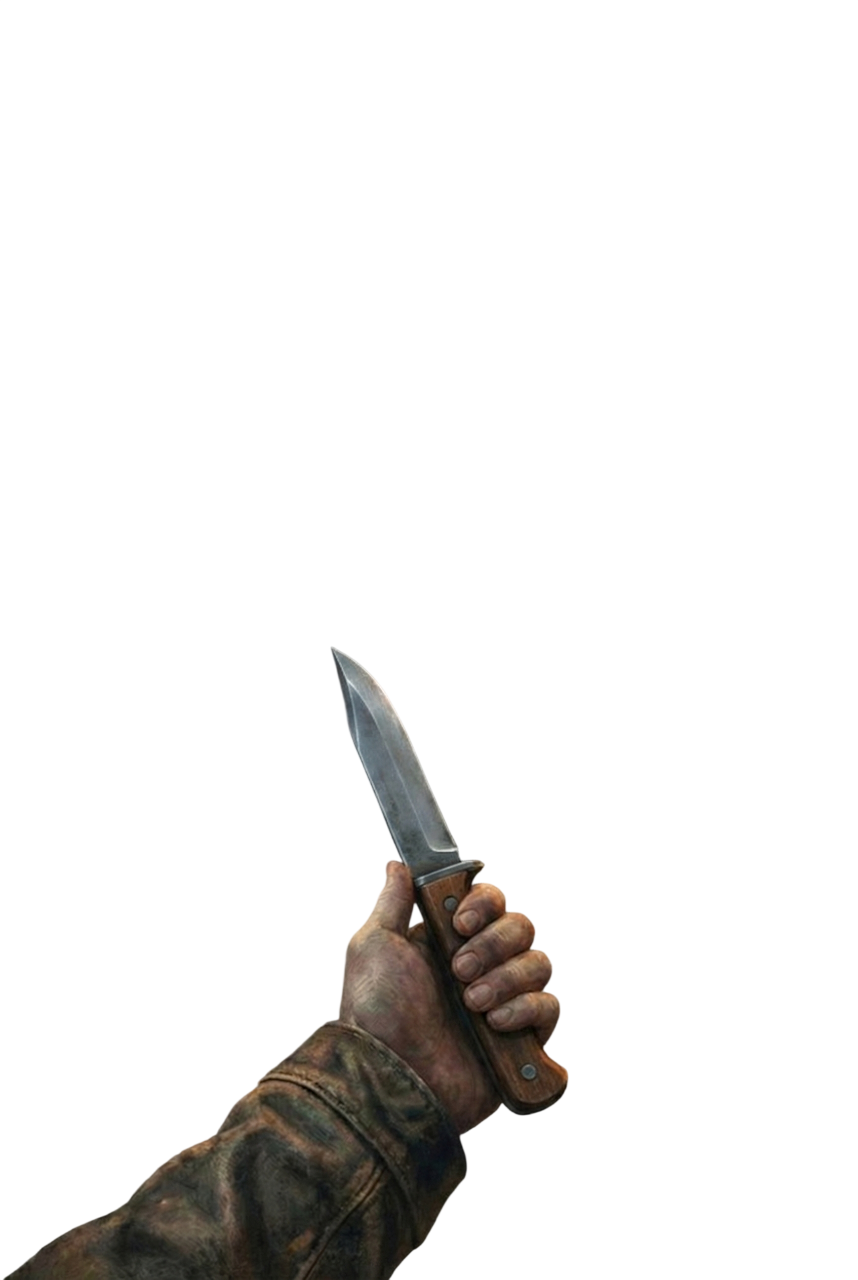
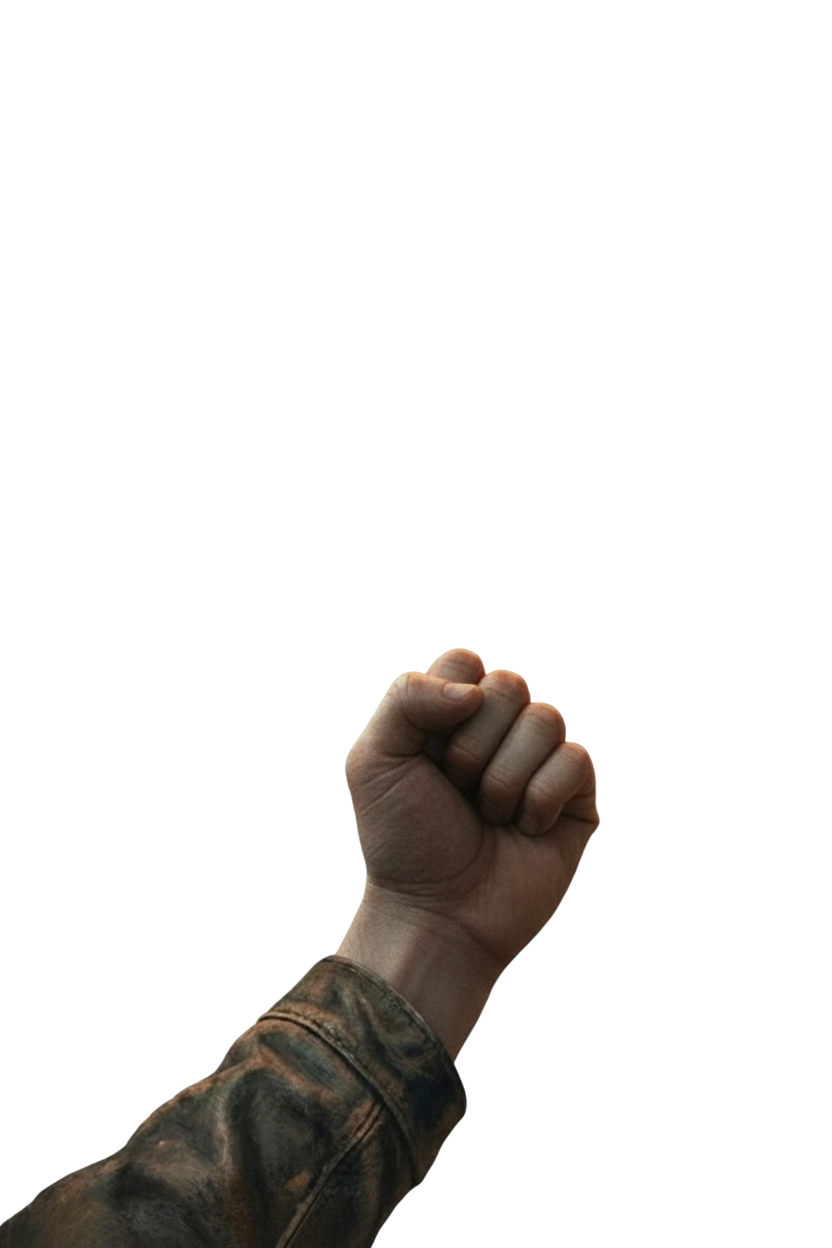
feat: adicionar imagens de fundo AR para agua benta e faca com sangue

Changed region(s): [[0.0, 0.5, 0.7188, 1.0], [0.3125, 0.9375, 0.375, 1.0]]

diff --git a/src/main.js b/src/main.js
@@ -23,7 +23,7 @@ const GameData = {
         weapons: [
             { id: 'hand', name: 'Mão', icon: '', iconPath: '/images/icon-mao.png', quantity: 1, damage: 5, weakness: [], image: '/images/bg-mao.png', canCollect: true },
             { id: 'shotgun', name: 'Espingarda', icon: '', iconPath: '/images/icon-espingarda.png', quantity: 0, damage: 20, weakness: ['ghost'], image: '/images/bg-espingarda.png', ammo: 'salt' },
-            { id: 'holy_water', name: 'Água Benta', icon: '', iconPath: '/images/icon-agua-benta.png', quantity: 0, damage: 10, weakness: ['demon'], image: null },
+            { id: 'holy_water', name: 'Água Benta', icon: '', iconPath: '/images/icon-agua-benta.png', quantity: 0, damage: 10, weakness: ['demon'], image: '/images/bg-agua-benta.png' },
             { id: 'knife', name: 'Faca', icon: '', iconPath: '/images/icon-faca.png', quantity: 0, damage: 15, weakness: ['werewolf'], image: '/images/bg-faca.png' },
             { id: 'salt', name: 'Sal', icon: '', iconPath: '/images/icon-sal.png', quantity: 0, damage: 25, weakness: ['ghost', 'demon'], image: null },
             { id: 'crowbar', name: 'Barra de Ferro', icon: '', iconPath: '/images/icon-ferro.png', quantity: 0, damage: 30, weakness: ['ghost'], image: '/images/bg-ferro.png' },
@@ -31,7 +31,7 @@ const GameData = {
             { id: 'devil_trap', name: 'Selo da Armadilha', icon: '', iconPath: '/images/icon-selo.png', quantity: 0, damage: 0, weakness: ['demon'], image: '/images/bg-pentagrama.png', special: 'trap' },
             { id: 'bible', name: 'Bíblia', icon: '', iconPath: '/images/icon-blibia.png', quantity: 0, damage: 100, weakness: ['demon'], image: '/images/bg-biblia.png', special: 'exorcism' },
             { id: 'angel_blade', name: 'Lâmina de Anjo', icon: '', iconPath: '/images/icon-lamina-anjo.png', quantity: 0, damage: 80, weakness: ['demon', 'hellhound'], image: '/images/bg-faca-anjo.png' },
-            { id: 'blood_knife', name: 'Faca com Sangue', icon: '', iconPath: '/images/icon-faca-morto.png', quantity: 0, damage: 40, weakness: ['vampire'], image: '/images/bg-faca.png' },
+            { id: 'blood_knife', name: 'Faca com Sangue', icon: '', iconPath: '/images/icon-faca-morto.png', quantity: 0, damage: 40, weakness: ['vampire'], image: '/images/bg-faca-morto.png' },
             { id: 'wooden_stake', name: 'Estaca de Madeira', icon: '', iconPath: '/images/icon-estaca.png', quantity: 0, damage: 100, weakness: ['vampire'], image: '/images/bg-estaca.png', special: 'finisher' },
             { id: 'molotov', name: 'Coquetel Molotov', icon: '', iconPath: '/images/icon-inflamavel.png', quantity: 0, damage: 60, weakness: ['wendigo'], image: '/images/bg-molotov.png' },
             { id: 'lighter', name: 'Isqueiro', icon: '', iconPath: '/images/icon-isqueiro.png', quantity: 0, damage: 0, weakness: ['wendigo'], image: '/images/bg-isqueiro.png', special: 'ignite' }
@@ -130,6 +130,8 @@ const PRELOAD_RESOURCES = {
         '/images/bg-estaca.png',
         '/images/bg-molotov.png',
         '/images/bg-isqueiro.png',
+        '/images/bg-agua-benta.png',
+        '/images/bg-faca-morto.png',
         '/images/icon-agua-benta.png',
         '/images/icon-espingarda.png',
         '/images/icon-faca.png',
